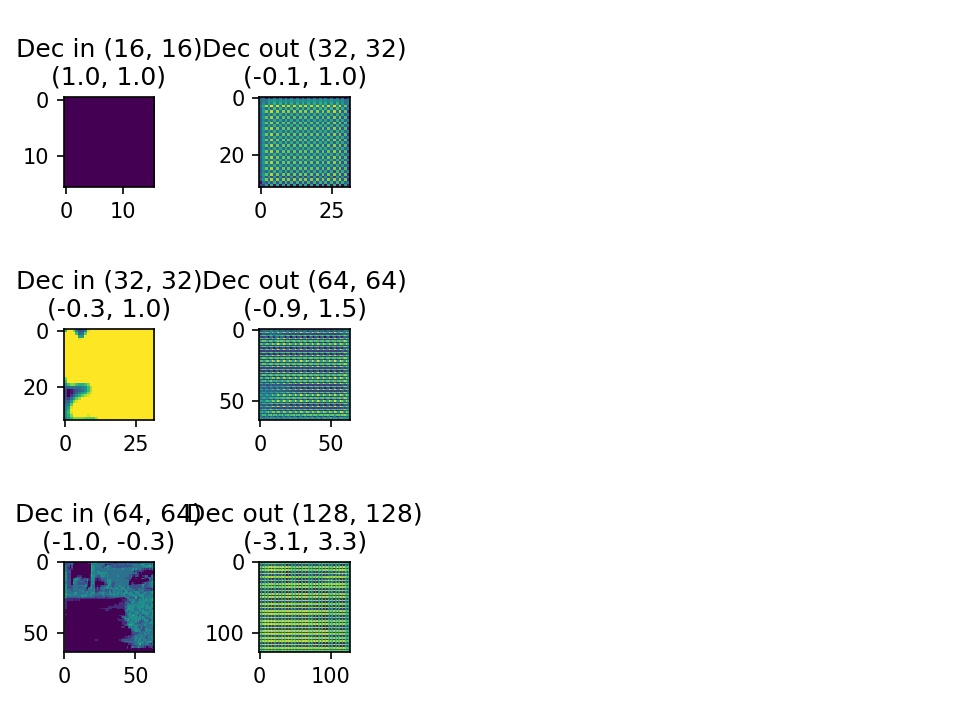
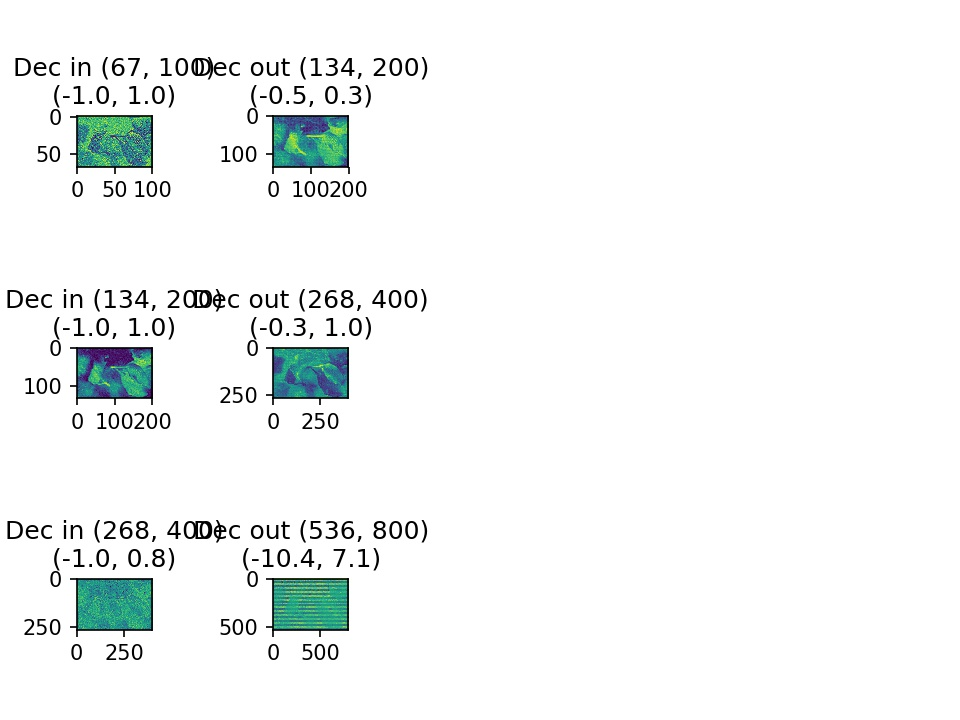
test runs and plotting implemented

Changed region(s): [[0.0, 0.3667, 0.4375, 0.6417], [0.0, 0.0306, 0.4375, 0.3056], [0.0, 0.7028, 0.4375, 0.9472]]

diff --git a/src/modules/multiscale_network.py b/src/modules/multiscale_network.py
@@ -52,6 +52,12 @@ import matplotlib.pyplot as plt
 
 conv = pe.default_conv
 
+def subplot(fig, R, C, n, I_in, name):
+    batch_idx = 0
+    ax = fig.add_subplot(R, C, n)
+    I = I_in[batch_idx, :3, :, :].detach().cpu().numpy().transpose(1, 2, 0)
+    ax.imshow(I)
+    ax.set_title("{} {}\n({:.1f}, {:.1f}) {}".format(name, list(I_in.shape), I_in.min().item(), I_in.max().item(), I_in.dtype))
 
 
 class Out(object):
@@ -241,7 +247,9 @@ class MultiscaleNetwork(vis.summarizable_module.SummarizableModule):
                   auto_recursive_from=self.scales if auto_recurse > 0 else None)
         out.append_input_image(x)
 
+        print("forward:", x.shape, x.min().item(), x.max().item(), x.dtype)
         x = self.sub_rgb_mean(x)  # something like -128..128 but not really
+        print("x:", x.shape, x.min().item(), x.max().item(), x.dtype)
         if self._rgb:
             x = x.detach()
         self._forward_with_scales(out, x, forward_scales)
@@ -276,21 +284,43 @@ class MultiscaleNetwork(vis.summarizable_module.SummarizableModule):
         inp = x
         enc_outs = []
 
+        save_dir = "output_plots"
+        os.makedirs(save_dir, exist_ok=1)
+
+        # inp before head
+        # inp after head
+        # enc.F, enc.bn, enc.bn_q
+        # dec.F
+        # P
+
+        L = 4
+        R = len(forward_scales)
+        C = 6
+        fig = plt.figure(figsize=(C*L, R*L))
+        n = 0
+        batch_idx = 0
         for scale in forward_scales:  # from fine to coarse
             net = self.nets[scale]
             head = self.heads[scale]
 
+            subplot(fig, R, C, C*scale+1, inp, f"[{scale}] inp A")
+
             inp = head(inp)
-            enc_out = net.enc(inp)
+
+            subplot(fig, R, C, C*scale+2, inp, f"[{scale}] inp B")
+
+            enc_out = net.enc(inp)          
+            
+            subplot(fig, R, C, C*scale+3, enc_out.F, f"[{scale}] enc_out.F")
+            subplot(fig, R, C, C*scale+4, enc_out.bn, f"[{scale}] enc_out.bn")
+            subplot(fig, R, C, C*scale+5, enc_out.bn_q, f"[{scale}] enc_out.bn_q")
+
             enc_outs.append(enc_out)
             inp = self.get_next_scale_intput(enc_out)  # for next scale
 
         dec_outs = []
 
 
-        save_dir = "output_plots"
-        os.makedirs(save_dir, exist_ok=1)
-        fig = plt.figure()
         batch_idx, n_depth = 0, 5
         n = 0
         for i, scale in reversed(list(enumerate(forward_scales))):  # from coarse to fine
@@ -310,18 +340,9 @@ class MultiscaleNetwork(vis.summarizable_module.SummarizableModule):
             dec_out = net.dec(dec_inp, features_to_fuse)
             dec_outs.insert(0, dec_out)
 
-            ax = fig.add_subplot(len(forward_scales), n_depth, n_depth*n+1)
-            I = dec_inp.detach().cpu().numpy()[batch_idx, i, :, :]
-            ax.imshow(I)
-            ax.set_title("Dec in {}\n({:.1f}, {:.1f})".format(I.shape, I.min(), I.max()))
+            subplot(fig, R, C, C*scale+6, dec_out.F, f"[{scale}] dec_out.F")
 
-            ax = fig.add_subplot(len(forward_scales), n_depth, n_depth*n+2)
-            I = dec_out.F.detach().cpu().numpy()[batch_idx, i, :, :]
-            ax.imshow(I)
-            ax.set_title("Dec out {}\n({:.1f}, {:.1f})".format(I.shape, I.min(), I.max()))
-            n += 1
-
-        save_path = os.path.join(save_dir, "dec.jpg")
+        save_path = os.path.join(save_dir, "forward.jpg")
         plt.tight_layout()
         plt.savefig(save_path, dpi=150)
         plt.close()

diff --git a/src/helpers/saver.py b/src/helpers/saver.py
@@ -29,7 +29,6 @@ from fjcommon.no_op import NoOp
 from fjcommon import timer
 from fjcommon.assertions import assert_exc
 
-
 class _CheckpointTracker(object):
     """ out_dir is usally set via set_out_dir """
     def __init__(self, out_dir=None, ckpt_name_fmt='ckpt_{:010d}.pt', tmp_postfix='.tmp'):
@@ -186,8 +185,9 @@ class Restorer(_CheckpointTracker):
         return self.restore(net, self.get_lastest_persistent_ckpt())
 
     def restore(self, modules, ckpt_p, strict=True, restore_restart=False):
-        print('Restoring {}... (strict={})'.format(ckpt_p, strict))
-        map_location = None if pe.CUDA_AVAILABLE else 'cpu'
+        print('saver.py Restoring {}... (strict={})'.format(ckpt_p, strict))
+        # map_location = None if pe.CUDA_AVAILABLE else 'cpu'
+        map_location = "cpu"
         state_dicts = torch.load(ckpt_p, map_location=map_location)
         # ---
         for key, m in modules.items():

diff --git a/src/criterion/logistic_mixture.py b/src/criterion/logistic_mixture.py
@@ -152,6 +152,9 @@ class DiscretizedMixLogisticLoss(vis.summarizable_module.SummarizableModule):
         assert x.min() >= self.x_min and x.max() <= self.x_max, '{},{} not in {},{}'.format(
                 x.min(), x.max(), self.x_min, self.x_max)
 
+        print("Loss: x: {} ({:.1f}, {:.1f}) {}".format(x.shape, x.min().item(), x.max().item(), x.dtype))
+        print("      l: {} ({:.1f}, {:.1f}) {}".format(l.shape, l.min().item(), l.max().item(), l.dtype))
+        print()
         # Extract ---
         #  NCKHW      NCKHW  NCKHW
         x, logit_pis, means, log_scales, K = self._extract_non_shared(x, l)
